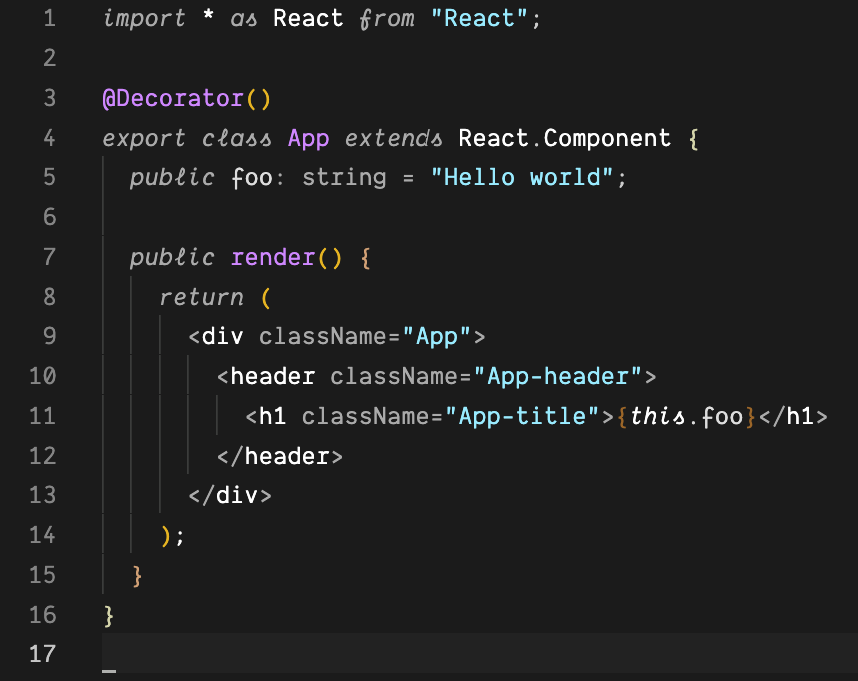
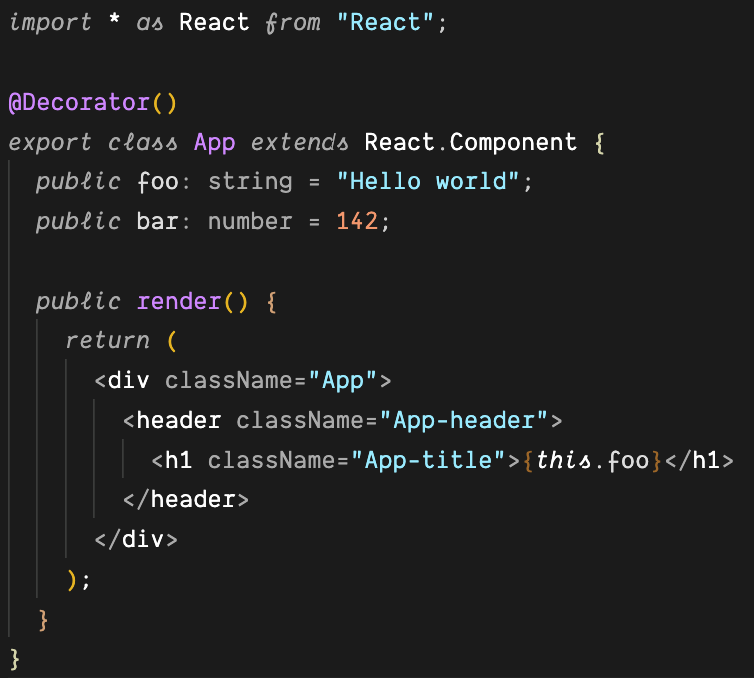
Remove line numbers from screenshot

diff --git a/demo/typescript-react.tsx b/demo/typescript-react.tsx
@@ -3,6 +3,7 @@ import * as React from "React";
 @Decorator()
 export class App extends React.Component {
   public foo: string = "Hello world";
+  public bar: number = 142;
 
   public render() {
     return (
